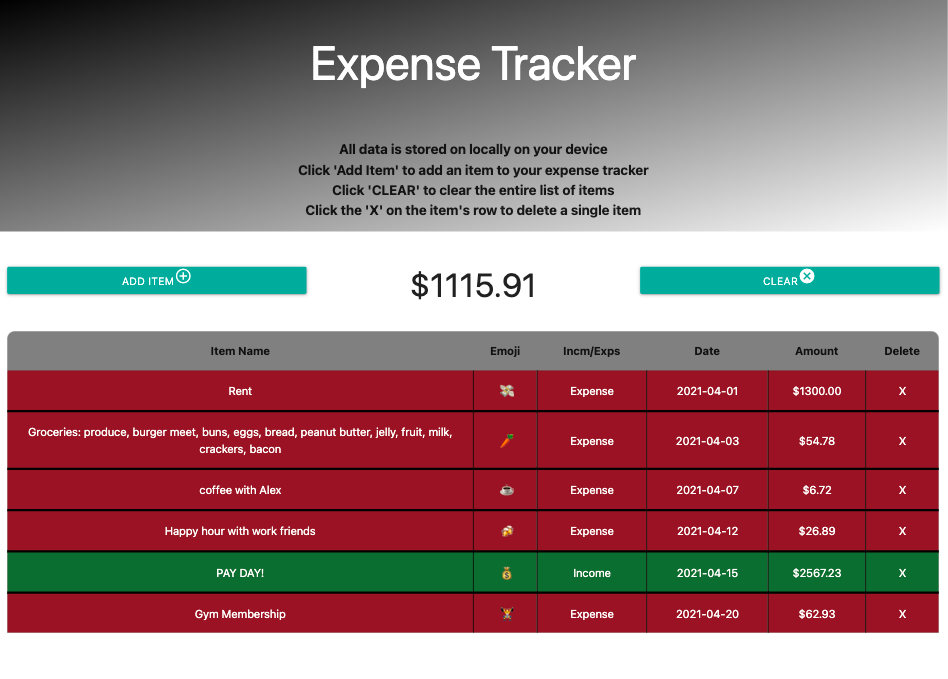
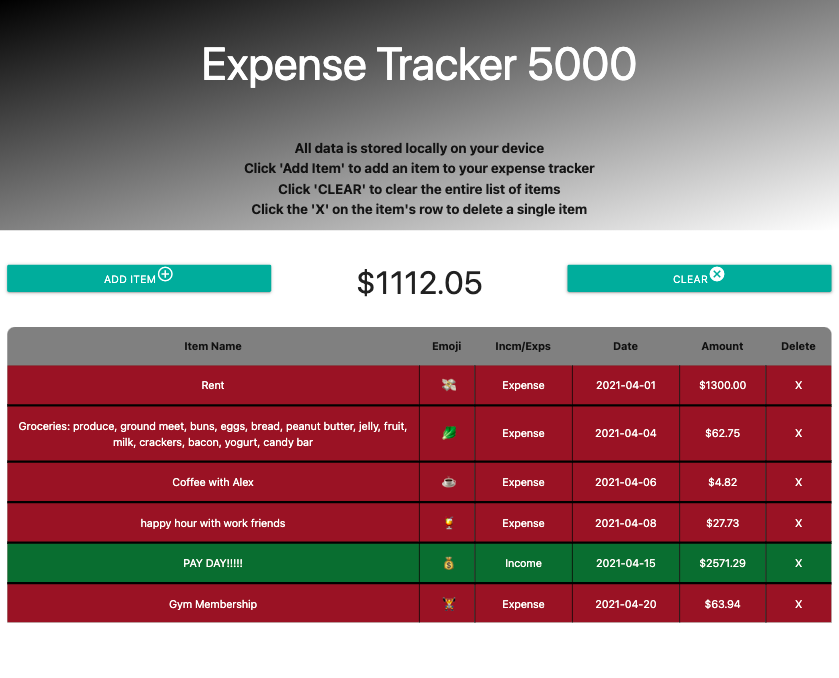
fixed typo on heading and corrected pictures in the readme file because the typo showed up on the pictures also

diff --git a/index.html b/index.html
@@ -27,7 +27,7 @@
     <header class="width100">
       <h1>Expense Tracker 5000</h1>
       <ul>
-        <li>All data is stored on locally on your device</li>
+        <li>All data is stored locally on your device</li>
         <li>Click 'Add Item' to add an item to your expense tracker</li>
         <li>Click 'CLEAR' to clear the entire list of items</li>
         <li>Click the 'X' on the item's row to delete a single item</li>
